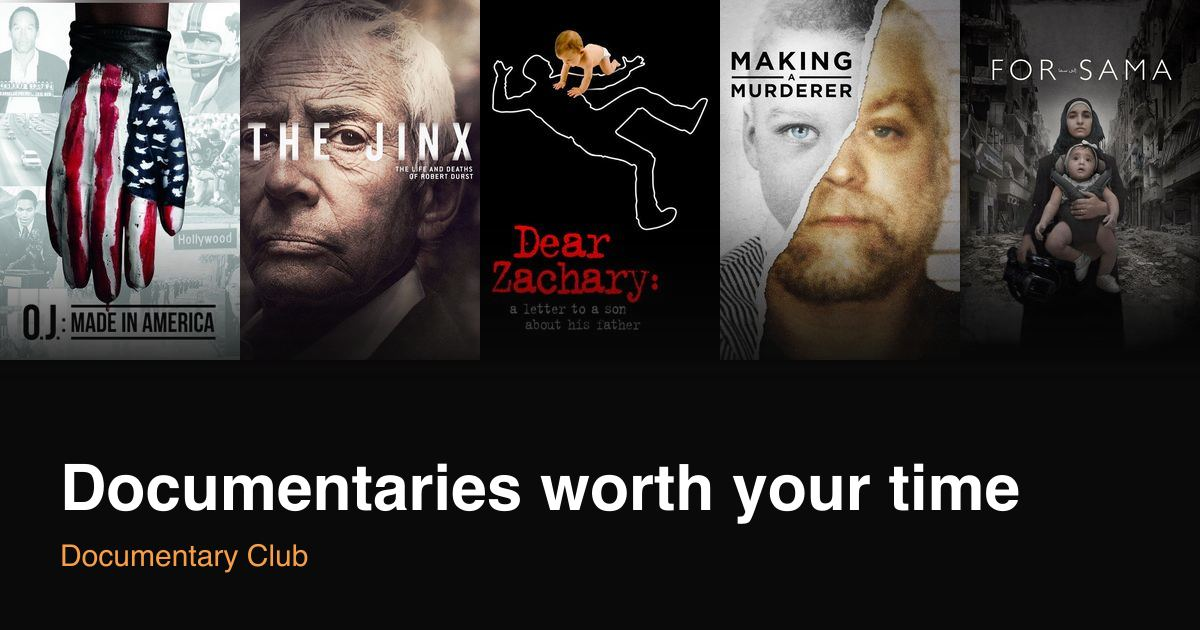
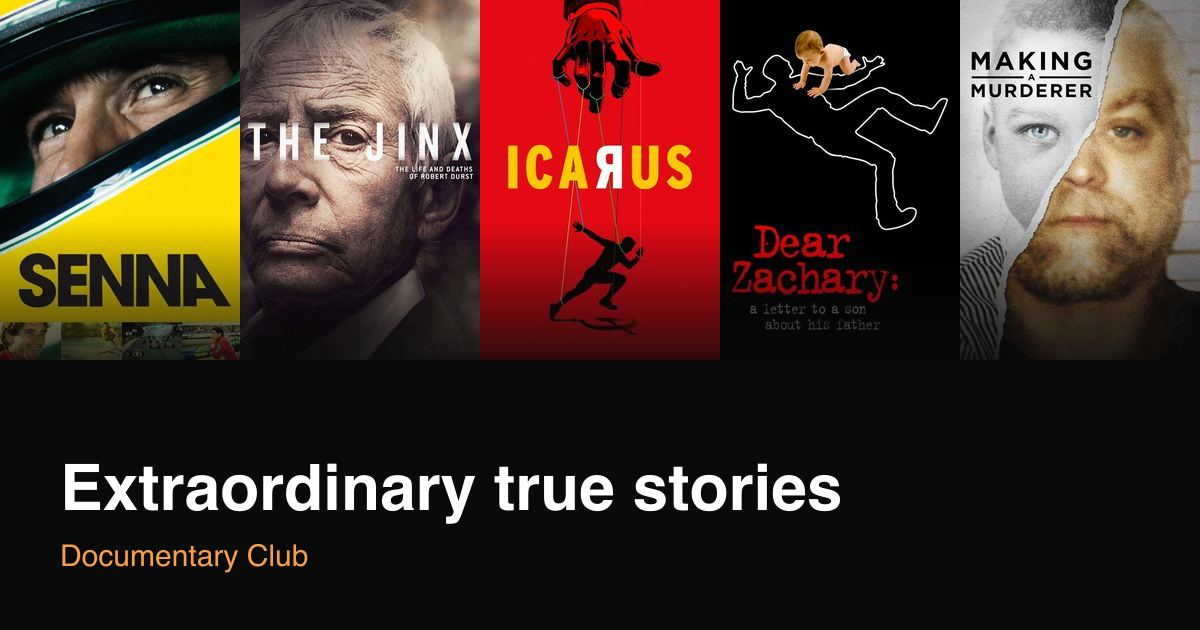
Home link preview: Extraordinary true stories with hand-picked posters

diff --git a/scripts/og-images.ts b/scripts/og-images.ts
@@ -15,8 +15,9 @@ const poster = (url: string) => {
   if (!posterCache.has(url)) posterCache.set(url, (url.startsWith('/') ? Promise.resolve(readFileSync(`public${url}`)) : fetch(url).then(r => r.arrayBuffer())).then(b => sharp(Buffer.from(b)).resize(POSTER_W, POSTER_H, { fit: 'cover' }).toBuffer()));
   return posterCache.get(url)!;
 };
-async function build(file: string, title: string, films: Film[]) {
-  const picks = [...films].filter(f => SNAPSHOT[f.id]?.poster).sort((a, b) => rank(b) - rank(a)).slice(0, COUNT);
+// Films are ranked by IMDb score unless `chosen` keeps a hand-picked order.
+async function build(file: string, title: string, films: Film[], chosen = false) {
+  const picks = (chosen ? films : [...films].sort((a, b) => rank(b) - rank(a))).filter(f => SNAPSHOT[f.id]?.poster).slice(0, COUNT);
   const left = (WIDTH - picks.length * POSTER_W) / 2;
   const posters = await Promise.all(picks.map(async (f, i) => ({ input: await poster(SNAPSHOT[f.id]!.poster!), left: Math.round(left + i * POSTER_W), top: 0 })));
   const size = title.length > 30 ? 52 : 64;
@@ -26,6 +27,8 @@ async function build(file: string, title: string, films: Film[]) {
   await sharp({ create: { width: WIDTH, height: HEIGHT, channels: 3, background: '#0a0a0a' } }).composite([...posters, { input: Buffer.from(text) }]).jpeg({ quality: 78 }).toFile(`public/og/${file}.jpg`);
 }
 mkdirSync('public/og', { recursive: true });
-await build('default', 'Documentaries worth your time', CATALOGUE.filter(f => f.tags?.includes('essential')));
+// The home page's preview: Colin's choice of posters, a mix of subjects.
+const HOME = ['senna', 'the-jinx', 'icarus', 'dear-zachary', 'making-a-murderer'];
+await build('default', 'Extraordinary true stories', HOME.map(id => CATALOGUE.find(f => f.id === id)!), true);
 for (const t of TAGS) await build(`tags-${t.id}`, t.title, CATALOGUE.filter(f => f.tags?.includes(t.id)));
 for (const c of CATEGORIES) await build(`categories-${slugify(c.label)}`, CATEGORY_COPY[c.id]?.title ?? c.label, CATALOGUE.filter(f => f.categories[0] === c.id));

diff --git a/src/lib/site-urls.ts b/src/lib/site-urls.ts
@@ -106,7 +106,7 @@ function previewFor(search: PageSearch) {
     const top = !search.maker ? undefined : CATALOGUE.filter(f => f.director.split(', ').includes(search.maker!)).find(f => SNAPSHOT[f.id]?.backdrops?.length);
     return { ...heading, image: top ? SNAPSHOT[top.id]?.backdrops?.[0] : undefined };
   }
-  return { title: 'A personal collection of documentaries', description: `${CATALOGUE.length} documentaries worth your time, with trailers, ratings and where to watch them.`, image: undefined };
+  return { title: 'Extraordinary true stories', description: `${CATALOGUE.length} documentaries worth your time, with trailers, ratings and where to watch them.`, image: undefined };
 }
 const absolute = (path: string) => (path.startsWith('http') ? path : `${SITE_ORIGIN}${path}`);
 // Absolute, server-rendered tags: WhatsApp, LinkedIn and Reddit read these without running any JavaScript.
